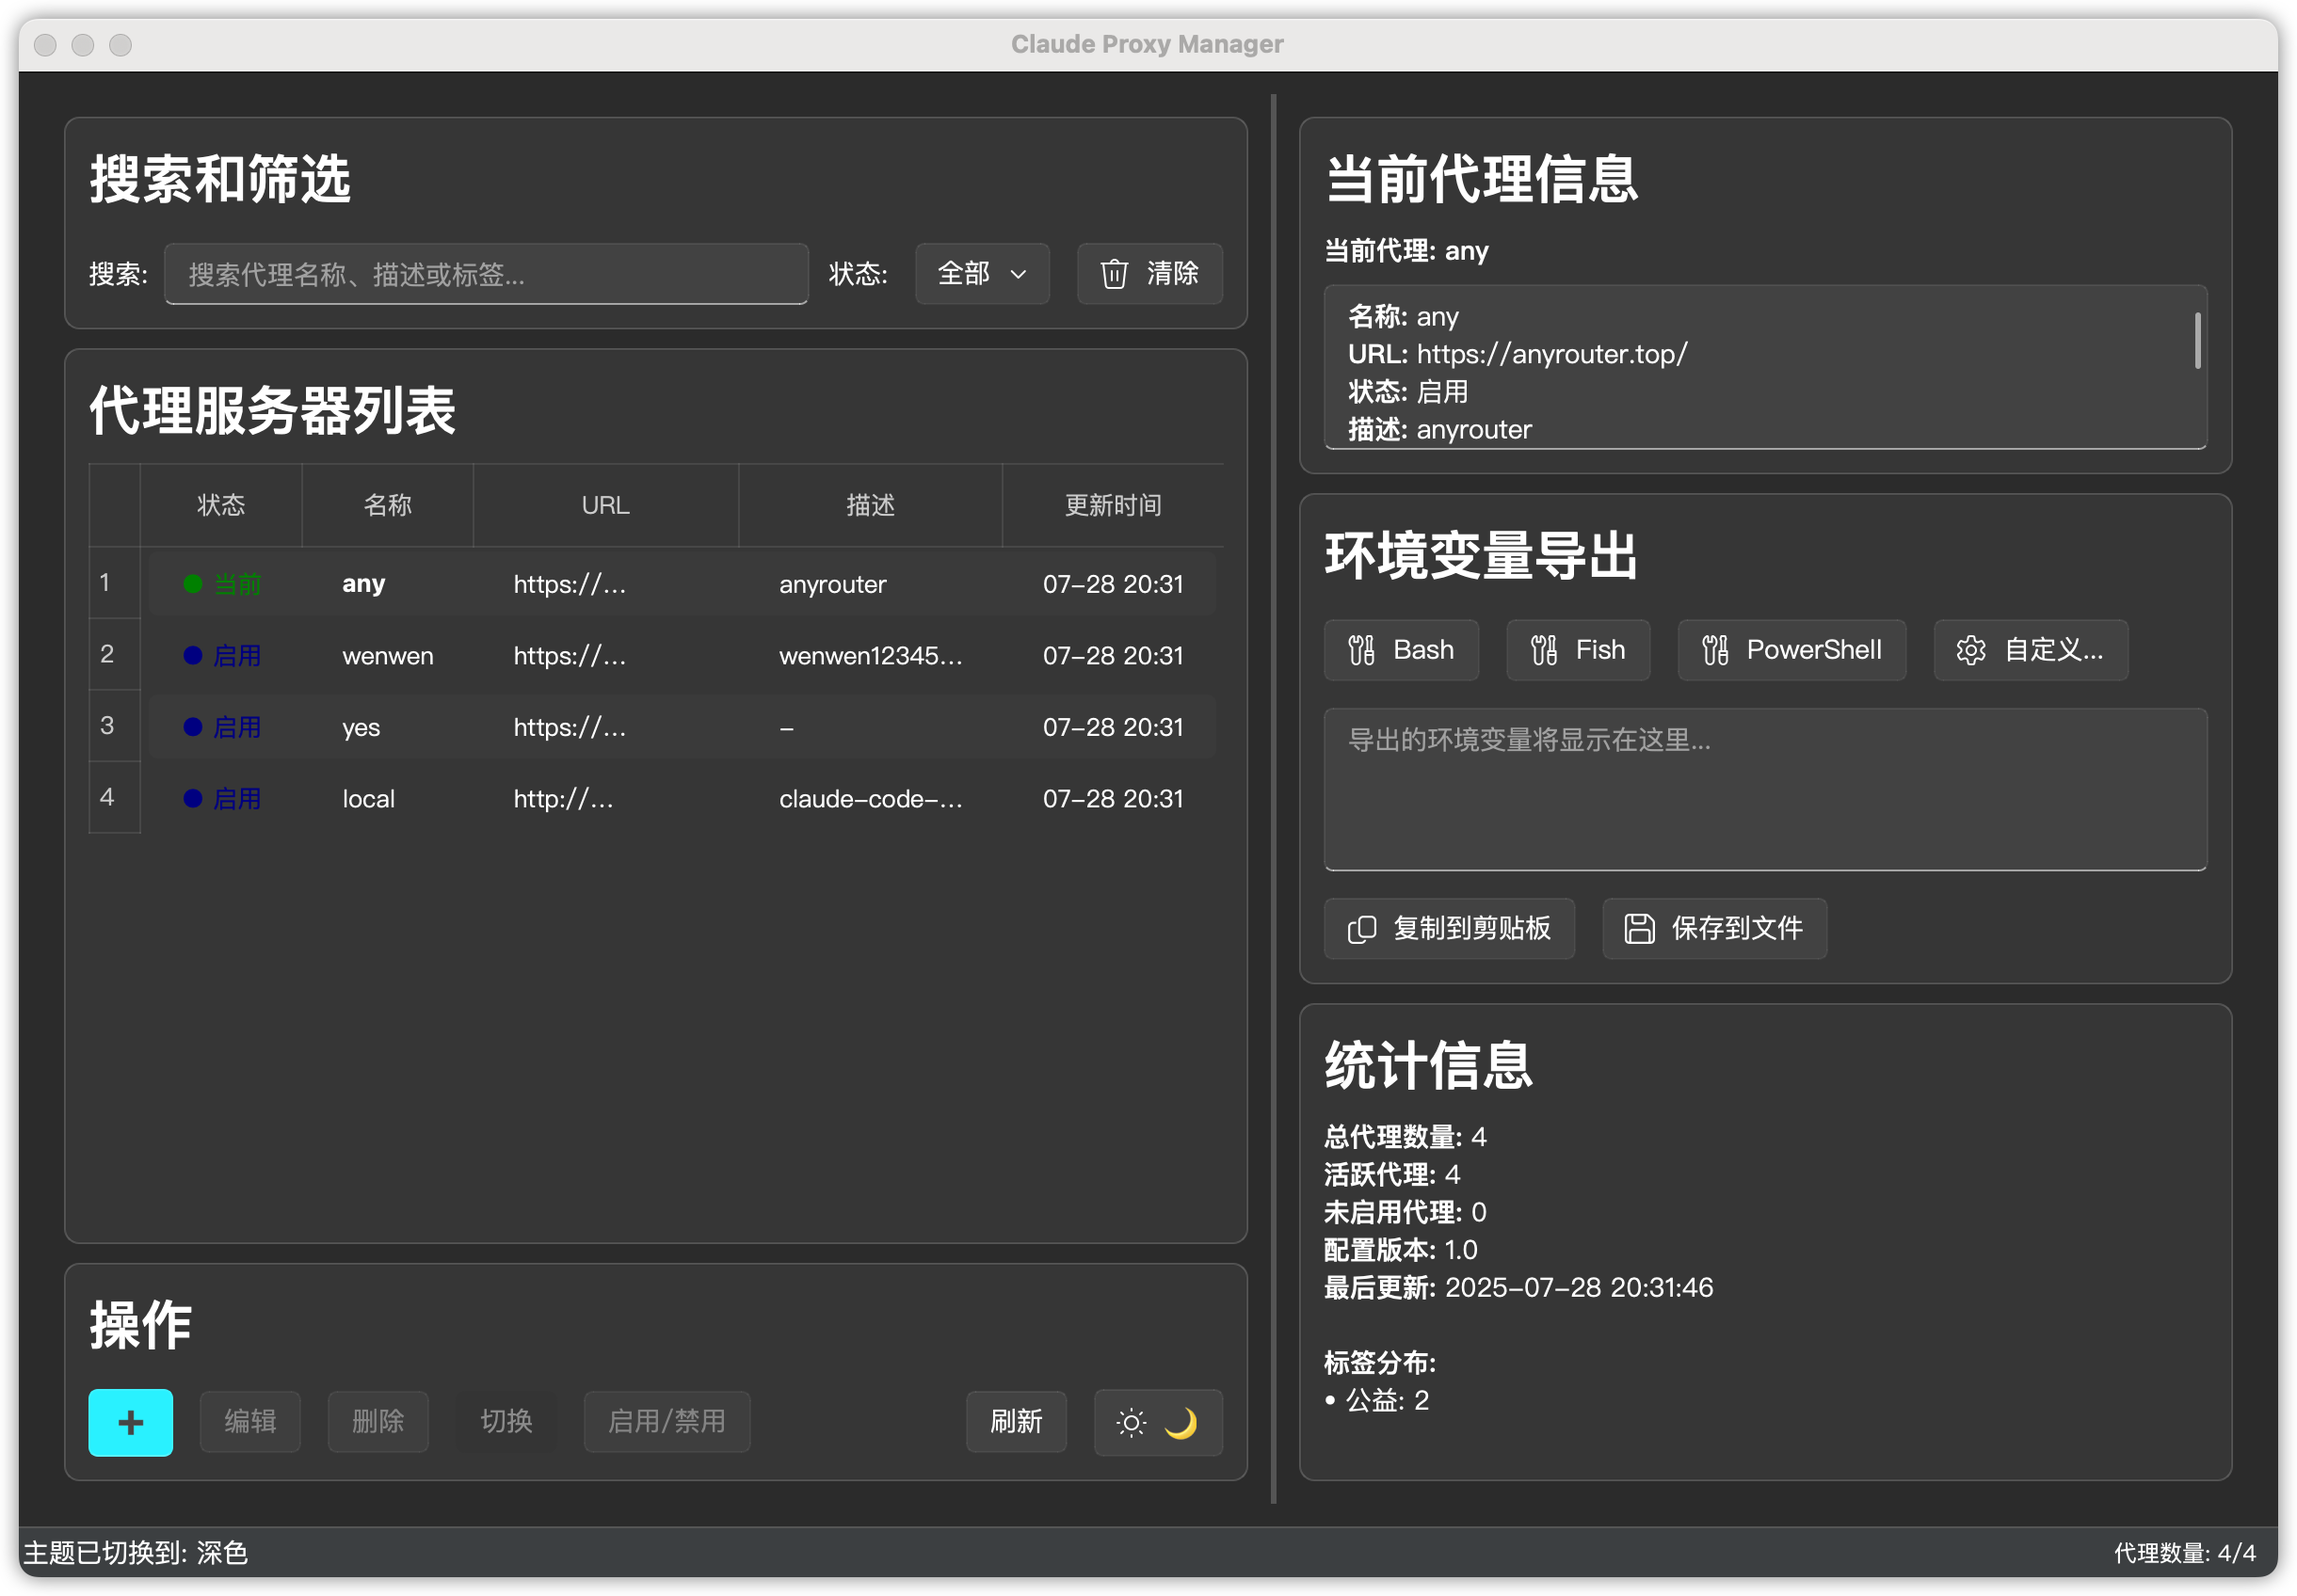
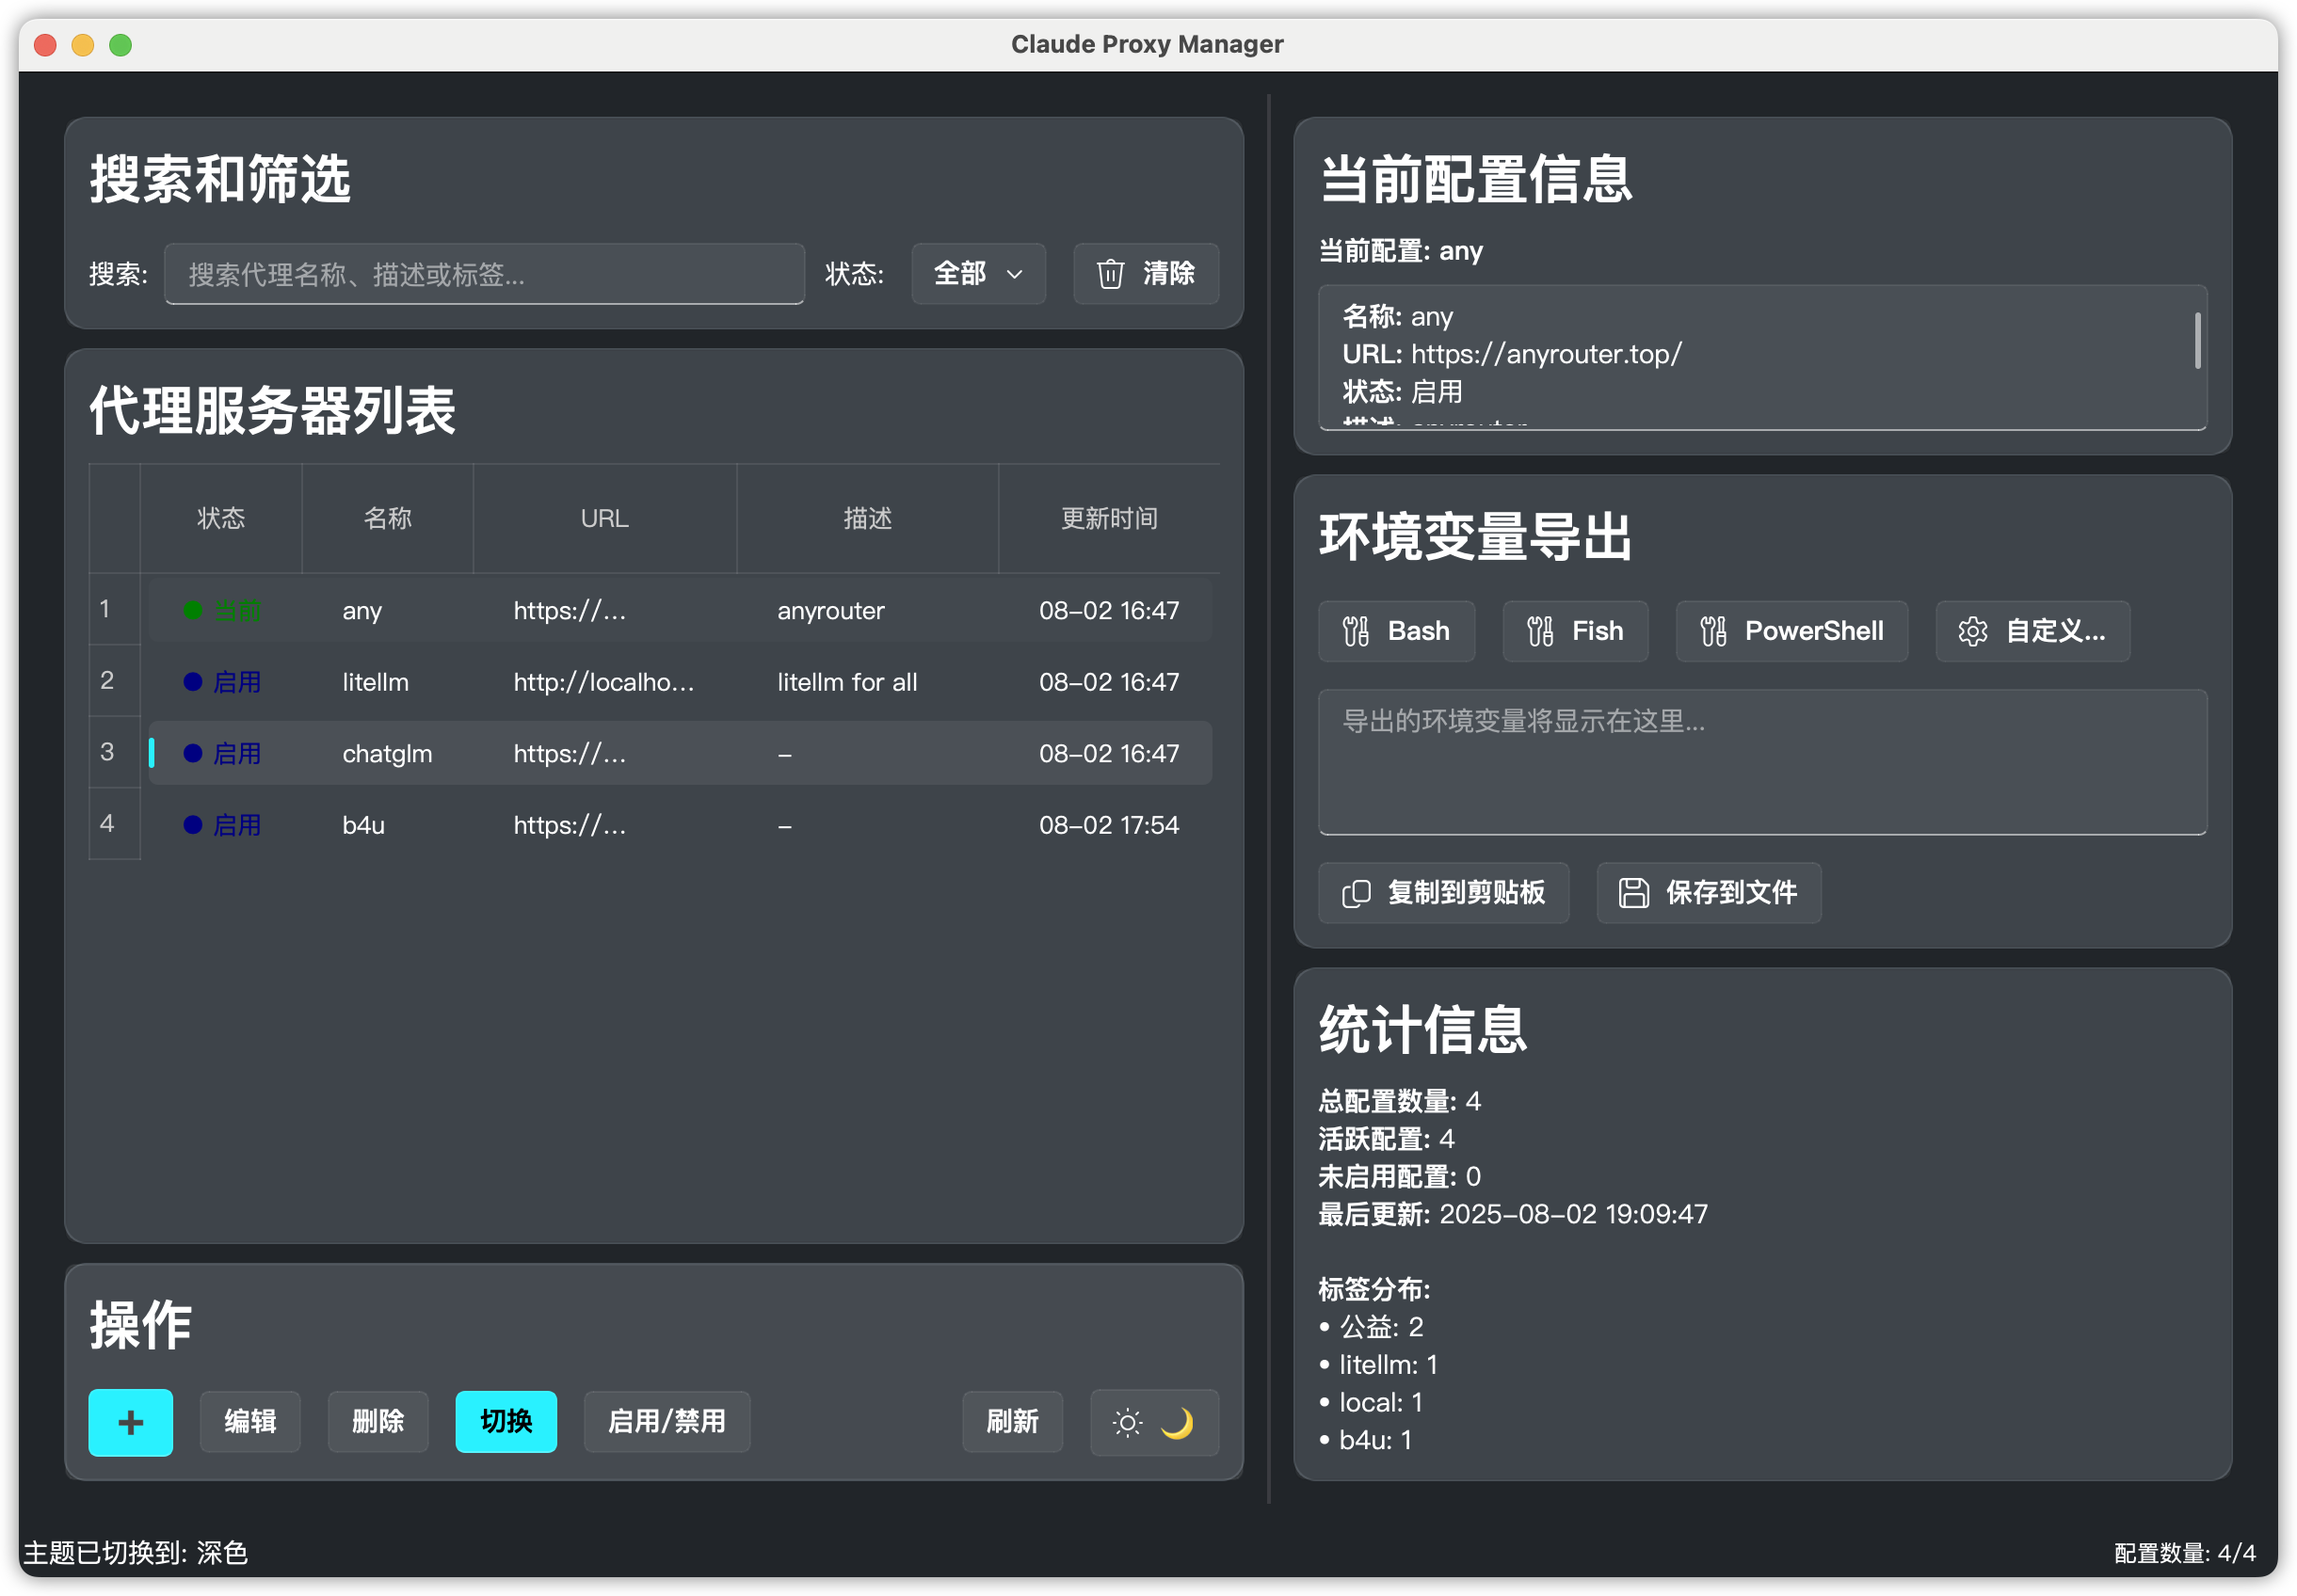
docs: update README with new artwork and changelog entries

diff --git a/README.md b/README.md
@@ -23,7 +23,7 @@
     <img src="https://img.shields.io/badge/Python-3.8%2B-brightgreen" alt="Python Version">
   </a>
   <a href="https://github.com/belingud/claudewarp/actions">
-    <img src="https://img.shields.io/github/actions/workflow/status/belingud/claudewarp/build.yml?branch=master" alt="Build Status">
+    <img src="https://img.shields.io/github/actions/workflow/status/belingud/claudewarp/build.yml" alt="Build Status">
   </a>
 </p>
 
@@ -43,6 +43,15 @@
 ![Light](artwork/light.png)
 
 ![Dark](artwork/dark.png)
+
+![edit](artwork/edit.png)
+
+---
+
+0802更新
+
+1. 修复修改和备份的逻辑问题
+2. 美化界面
 
 ---
 
